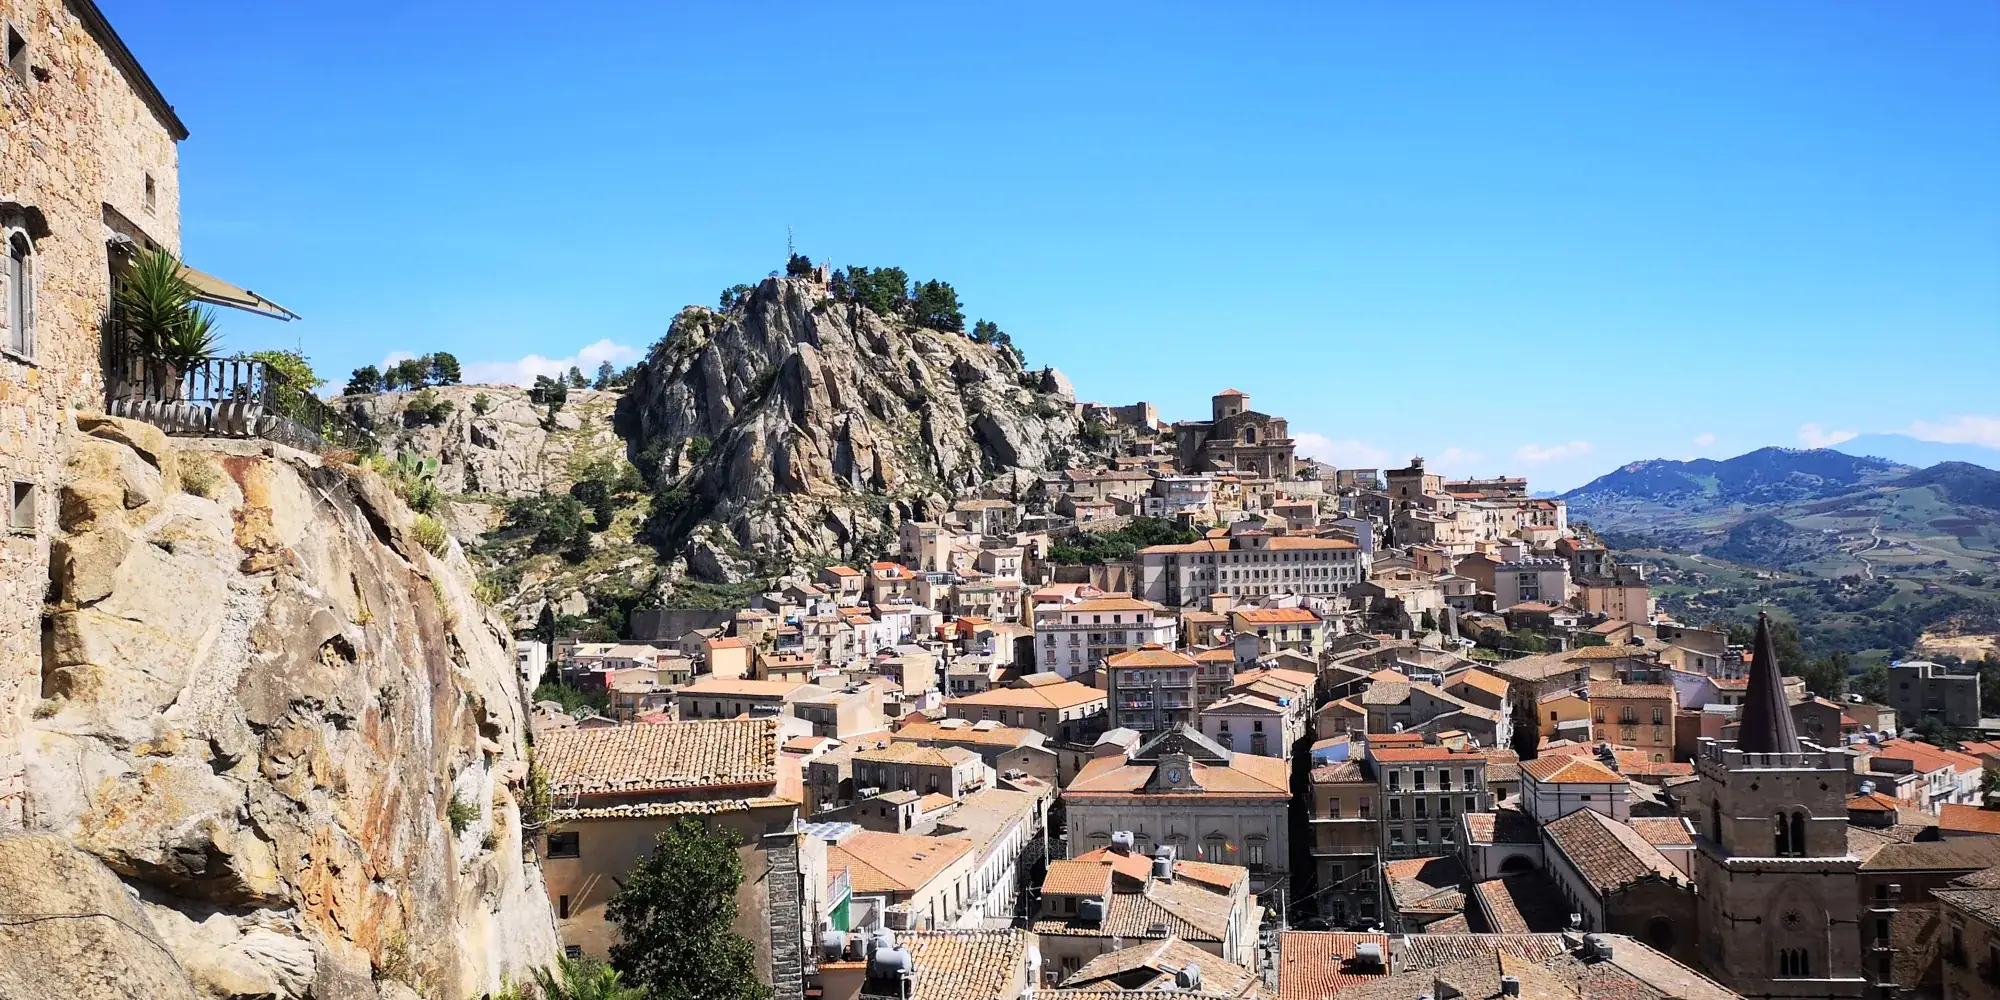
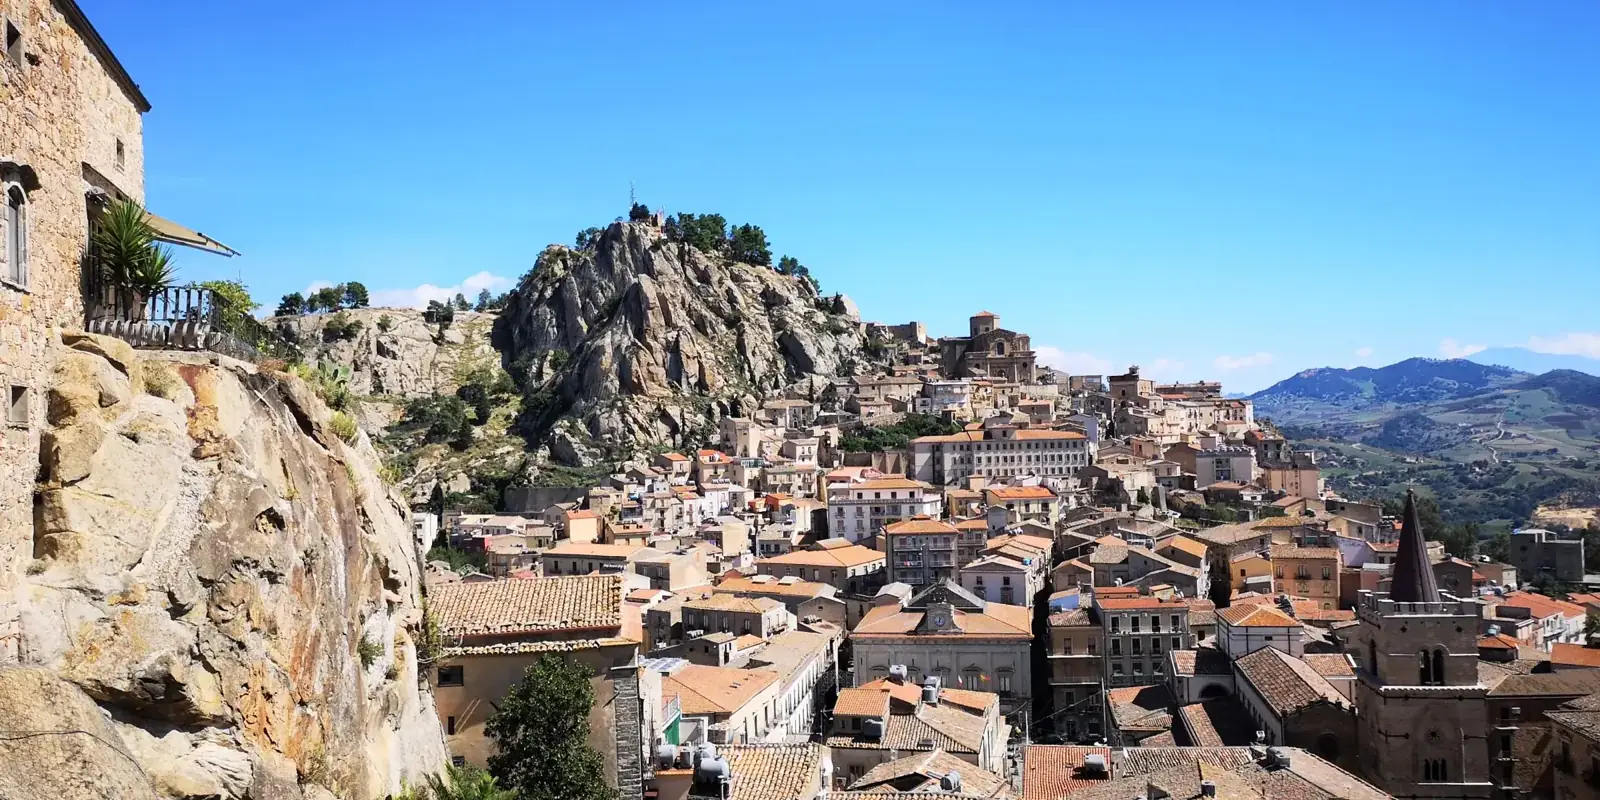
E-E-A-T e rifiniture: pagine Chi siamo/Contatti, byline guida, immagini piu' leggere
- Nuove pagine chi-siamo.html e contatti.html (AboutPage/ContactPage schema,
  meta/canonical/OG, <main>, skip-link), in sitemap e nel footer
- Guida: schema Article con autore e date + byline visibile (datePublished/author)
- Link interni incrociati (risolve orphan/weak-internal-links sulla guida)
- privacy: informativa sub-responsabili (Vercel, Google, OSM, Meta)
- Contatti: testo link telefono distinto (no mismatch nome accessibile)
- Immagini: logo 207KB->66KB, hero 1600px, Altesina 1120px (tutte <200KB)

diff --git a/sito-pronto/chi-siamo.html b/sito-pronto/chi-siamo.html
@@ -1,0 +1,105 @@
+<!DOCTYPE html>
+<html lang="it">
+<head>
+<meta charset="utf-8">
+<meta name="viewport" content="width=device-width, initial-scale=1">
+<title>Chi siamo — La Mansarda Nicosia</title>
+<meta name="description" content="La Mansarda è una casa di famiglia nel centro storico di Nicosia, gestita di persona da Paolo e Stefano Compagnone. Accoglienza, kit di benvenuto e consigli locali.">
+<link rel="canonical" href="https://www.lamansardanicosia.it/chi-siamo.html">
+<meta property="og:type" content="website">
+<meta property="og:title" content="Chi siamo — La Mansarda Nicosia">
+<meta property="og:description" content="Una casa di famiglia nel centro storico di Nicosia, gestita di persona da Paolo e Stefano Compagnone.">
+<meta property="og:image" content="https://www.lamansardanicosia.it/assets/img/hero-nicosia.webp">
+<meta property="og:url" content="https://www.lamansardanicosia.it/chi-siamo.html">
+<link rel="icon" href="assets/img/favicon.png">
+<link rel="preconnect" href="https://fonts.googleapis.com">
+<link rel="preconnect" href="https://fonts.gstatic.com" crossorigin>
+<link href="https://fonts.googleapis.com/css2?family=Inter:wght@400;600;700&family=Playfair+Display:wght@600&display=swap" rel="stylesheet">
+<script type="application/ld+json">
+{
+  "@context": "https://schema.org",
+  "@type": "AboutPage",
+  "url": "https://www.lamansardanicosia.it/chi-siamo.html",
+  "name": "Chi siamo — La Mansarda Nicosia",
+  "mainEntity": {
+    "@type": "LodgingBusiness",
+    "name": "La Mansarda",
+    "url": "https://www.lamansardanicosia.it/",
+    "image": "https://www.lamansardanicosia.it/assets/img/hero-nicosia.webp",
+    "telephone": "[phone redacted]",
+    "email": "[email redacted]",
+    "identifier": {
+      "@type": "PropertyValue",
+      "propertyID": "CIN",
+      "value": "IT086012C2KM8BBUCU"
+    },
+    "address": {
+      "@type": "PostalAddress",
+      "streetAddress": "Via Costanza Bruno 1",
+      "addressLocality": "Nicosia",
+      "addressRegion": "EN",
+      "postalCode": "94014",
+      "addressCountry": "IT"
+    },
+    "founder": {
+      "@type": "Person",
+      "name": "Paolo Compagnone",
+      "jobTitle": "Titolare"
+    },
+    "employee": [
+      {
+        "@type": "Person",
+        "name": "Paolo Compagnone",
+        "jobTitle": "Titolare"
+      },
+      {
+        "@type": "Person",
+        "name": "Stefano Compagnone",
+        "jobTitle": "Host"
+      }
+    ]
+  }
+}
+</script>
+<style>
+body{font-family:'Inter',system-ui,Arial,sans-serif;color:#1b2230;max-width:820px;margin:0 auto;padding:30px 22px 70px;line-height:1.65}
+h1,h2{font-family:'Playfair Display',serif;color:#14306e}
+h1{font-size:2rem}h2{font-size:1.25rem;margin-top:2rem}
+a{color:#1f3a8a}
+.top{display:flex;align-items:center;justify-content:space-between;border-bottom:1px solid #e6e9ef;padding-bottom:14px;margin-bottom:24px}
+.top img{height:40px}
+.muted{color:#5c6675;font-size:.9rem}
+.box{background:#f7f9fc;border:1px solid #e6e9ef;border-radius:12px;padding:14px 18px}
+.skip:focus{position:static!important;left:auto!important;display:inline-block;padding:8px 12px;background:#14306e;color:#fff;border-radius:6px}
+</style>
+</head>
+<body>
+<a href="#main" class="skip" style="position:absolute;left:-9999px">Salta al contenuto</a>
+<div class="top"><img src="logo-mansarda.png" alt="La Mansarda" width="1174" height="590"><a href="/">← Torna al sito</a></div>
+<main id="main">
+<h1>Chi siamo</h1>
+<p>La Mansarda è una casa di famiglia, non un albergo. Si trova nel centro storico di Nicosia (EN), in Sicilia, e la gestiamo di persona noi: Paolo e Stefano Compagnone. Quando arrivi ti accogliamo di persona, ti consegniamo le chiavi e ti raccontiamo i posti giusti dove mangiare e cosa vedere a Nicosia. Troverai un piccolo kit di benvenuto e la colazione di base pronta per te.</p>
+<p>Rispondiamo in fretta a ogni messaggio: per noi conta che ti senta a casa, dal primo contatto fino alla partenza.</p>
+
+<h2>I tuoi host</h2>
+<p>Paolo Compagnone è il titolare della struttura: è la persona che con ogni probabilità ti accoglierà all'arrivo e ti guiderà alla scoperta di Nicosia, dei suoi sapori e dei suoi angoli più autentici. Insieme a lui c'è Stefano, che cura il contatto con gli ospiti e segue le richieste prima e durante il soggiorno.</p>
+<p>Ci piace che La Mansarda sia un piccolo rifugio accogliente: ti aspettano un kit di benvenuto, la colazione di base già pronta, qualche consiglio sincero sui ristoranti e sulle cose da vedere e, per le serate più tranquille, una chitarra e una scacchiera a tua disposizione in casa.</p>
+
+<h2>La nostra struttura</h2>
+<p>La Mansarda è un bilocale di circa 50 m² nel cuore del centro storico di Nicosia, pensato per ospitare fino a 2 persone. Si trova al 4º piano e, in onestà, non c'è ascensore: bisogna fare le scale, ma una volta su ti aspetta una casa luminosa e raccolta, perfetta per una coppia o per chi viaggia da solo.</p>
+<p>Puoi prenotare direttamente con noi, senza commissioni di intermediazione: ci scrivi, concordiamo le date e il resto lo sistemiamo insieme, in modo semplice e trasparente.</p>
+
+<h2>Trasparenza</h2>
+<div class="box">
+<p><strong>Struttura:</strong> La Mansarda — CIN IT086012C2KM8BBUCU<br>
+<strong>Titolare:</strong> Paolo Compagnone<br>
+<strong>Indirizzo:</strong> Via Costanza Bruno 1, 94014 Nicosia (EN), Italia<br>
+<strong>Telefono / WhatsApp:</strong> <a href="tel:[phone redacted]">[phone redacted]</a><br>
+<strong>Email:</strong> <a href="mailto:[email redacted]">[email redacted]</a></p>
+</div>
+<p class="muted" style="margin-top:1rem">Il CIN (Codice Identificativo Nazionale) è esposto come previsto dalla normativa sulle locazioni turistiche.</p>
+
+<p style="margin-top:2rem">Hai domande o vuoi verificare le disponibilità? <a href="/contatti.html">Contattaci</a>, scopri <a href="/cosa-vedere-a-nicosia.html">cosa vedere a Nicosia</a> oppure <a href="/">torna alla home</a>.</p>
+</main>
+</body>
+</html>

diff --git a/sito-pronto/contatti.html b/sito-pronto/contatti.html
@@ -1,0 +1,100 @@
+<!DOCTYPE html>
+<html lang="it">
+<head>
+<meta charset="utf-8">
+<meta name="viewport" content="width=device-width, initial-scale=1">
+<title>Contatti — La Mansarda Nicosia</title>
+<meta name="description" content="Contatta gli host di La Mansarda a Nicosia: scrivici su WhatsApp, chiamaci o invia una email. Rispondiamo di persona, di solito entro poche ore.">
+<link rel="canonical" href="https://www.lamansardanicosia.it/contatti.html">
+<meta property="og:type" content="website">
+<meta property="og:title" content="Contatti — La Mansarda Nicosia">
+<meta property="og:description" content="Scrivici su WhatsApp, chiamaci o invia una email per informazioni, date e richieste speciali su La Mansarda a Nicosia.">
+<meta property="og:image" content="https://www.lamansardanicosia.it/assets/img/hero-nicosia.webp">
+<meta property="og:url" content="https://www.lamansardanicosia.it/contatti.html">
+<link rel="icon" href="assets/img/favicon.png">
+<link rel="preconnect" href="https://fonts.googleapis.com">
+<link rel="preconnect" href="https://fonts.gstatic.com" crossorigin>
+<link href="https://fonts.googleapis.com/css2?family=Inter:wght@400;600;700&family=Playfair+Display:wght@600&display=swap" rel="stylesheet">
+<script type="application/ld+json">
+{
+  "@context": "https://schema.org",
+  "@type": "ContactPage",
+  "name": "Contatti — La Mansarda Nicosia",
+  "url": "https://www.lamansardanicosia.it/contatti.html",
+  "description": "Contatta gli host di La Mansarda a Nicosia: WhatsApp, telefono o email.",
+  "mainEntity": {
+    "@type": "LodgingBusiness",
+    "name": "La Mansarda",
+    "url": "https://www.lamansardanicosia.it/",
+    "telephone": "[phone redacted]",
+    "email": "[email redacted]",
+    "image": "https://www.lamansardanicosia.it/assets/img/hero-nicosia.webp",
+    "address": {
+      "@type": "PostalAddress",
+      "streetAddress": "Via Costanza Bruno 1",
+      "addressLocality": "Nicosia",
+      "addressRegion": "EN",
+      "postalCode": "94014",
+      "addressCountry": "IT"
+    },
+    "contactPoint": {
+      "@type": "ContactPoint",
+      "contactType": "customer service",
+      "telephone": "[phone redacted]",
+      "email": "[email redacted]",
+      "availableLanguage": ["it", "en"]
+    },
+    "identifier": {
+      "@type": "PropertyValue",
+      "name": "CIN",
+      "value": "IT086012C2KM8BBUCU"
+    }
+  }
+}
+</script>
+<style>
+body{font-family:'Inter',system-ui,Arial,sans-serif;color:#1b2230;max-width:820px;margin:0 auto;padding:30px 22px 70px;line-height:1.65}
+h1,h2{font-family:'Playfair Display',serif;color:#14306e}
+h1{font-size:2rem}h2{font-size:1.25rem;margin-top:2rem}
+a{color:#1f3a8a}
+.top{display:flex;align-items:center;justify-content:space-between;border-bottom:1px solid #e6e9ef;padding-bottom:14px;margin-bottom:24px}
+.top img{height:40px}
+.muted{color:#5c6675;font-size:.9rem}
+.box{background:#f7f9fc;border:1px solid #e6e9ef;border-radius:12px;padding:14px 18px}
+.contacts{list-style:none;padding:0;margin:1rem 0}
+.contacts li{padding:10px 0;border-bottom:1px solid #eef1f6}
+.contacts li:last-child{border-bottom:0}
+.contacts strong{display:inline-block;min-width:90px;color:#14306e}
+.skip:focus{position:static!important;left:auto!important;display:inline-block;padding:8px 12px;background:#14306e;color:#fff;border-radius:6px}
+</style>
+</head>
+<body>
+<a href="#main" class="skip" style="position:absolute;left:-9999px">Salta al contenuto</a>
+<div class="top"><img src="logo-mansarda.png" alt="La Mansarda" width="1174" height="590"><a href="/">← Torna al sito</a></div>
+<main id="main">
+<h1>Contatti</h1>
+<p>Per informazioni, date o richieste speciali, scrivici: rispondiamo in fretta. Dietro La Mansarda ci siamo noi, Paolo &amp; Stefano Compagnone, e rispondiamo sempre di persona, di solito entro poche ore.</p>
+
+<div class="box">
+<ul class="contacts">
+  <li><strong>WhatsApp:</strong> <a href="https://wa.me/[phone redacted]">Scrivici su WhatsApp ([phone redacted])</a></li>
+  <li><strong>Telefono:</strong> <a href="tel:[phone redacted]">Chiama il [phone redacted]</a></li>
+  <li><strong>Email:</strong> <a href="mailto:[email redacted]">[email redacted]</a></li>
+</ul>
+</div>
+
+<h2>Dove siamo</h2>
+<p>Via Costanza Bruno 1, 94014 Nicosia (EN), Sicilia. La Mansarda si trova nel centro storico di Nicosia, a pochi passi dai vicoli, dalle chiese e dalle piazze del cuore antico della città.</p>
+
+<h2>Tempi di risposta</h2>
+<p>Rispondiamo in genere entro poche ore. Se ci scrivi la sera, potremmo risponderti la mattina successiva: in ogni caso ti ricontattiamo sempre noi, senza intermediari.</p>
+
+<h2>Dati struttura</h2>
+<p>Titolare: Paolo Compagnone.<br>
+Struttura: La Mansarda — CIN IT086012C2KM8BBUCU.<br>
+Via Costanza Bruno 1, 94014 Nicosia (EN), Italia.</p>
+
+<p class="muted" style="margin-top:2rem">Vuoi saperne di più? <a href="/">Torna alla home</a>, scopri <a href="/chi-siamo.html">Chi siamo</a> oppure passa direttamente alla sezione <a href="/#prenota">Prenota</a>.</p>
+</main>
+</body>
+</html>

diff --git a/sito-pronto/cosa-vedere-a-nicosia.html b/sito-pronto/cosa-vedere-a-nicosia.html
@@ -36,6 +36,20 @@
   ]
 }
 </script>
+<script type="application/ld+json">
+{
+  "@context": "https://schema.org",
+  "@type": "Article",
+  "headline": "Cosa vedere a Nicosia (Sicilia): guida al borgo dei Nebrodi",
+  "description": "Cosa vedere a Nicosia (Enna): cattedrale, basiliche barocche, Monte Altesina, laghi e natura dei Nebrodi.",
+  "image": "https://www.lamansardanicosia.it/assets/img/nicosia/nicosia-01-centro.webp",
+  "datePublished": "2026-01-15",
+  "dateModified": "2026-06-16",
+  "author": { "@type": "Person", "name": "Stefano Compagnone", "url": "https://www.lamansardanicosia.it/chi-siamo.html" },
+  "publisher": { "@type": "Organization", "name": "La Mansarda Nicosia", "logo": { "@type": "ImageObject", "url": "https://www.lamansardanicosia.it/logo-mansarda.png" } },
+  "mainEntityOfPage": "https://www.lamansardanicosia.it/cosa-vedere-a-nicosia.html"
+}
+</script>
 <style>
 :root{--navy:#1f3a8a;--navy-deep:#14306e;--azure:#3e97d1;--azure-light:#eaf4fb;--ink:#1b2230;--muted:#5c6675;--line:#e6e9ef;--bg:#fff;--soft:#f7f9fc;--radius:14px;--maxw:820px;--shadow:0 10px 30px rgba(20,48,110,.08)}
 *{box-sizing:border-box}
@@ -103,6 +117,7 @@ footer a{color:#cdd6ec}
 
 <div class="wrap">
   <p class="crumb"><a href="/">La Mansarda</a> › Cosa vedere a Nicosia</p>
+  <p class="byline" style="color:#5c6675;font-size:.9rem;margin:.2rem 0 0">Di <a href="/chi-siamo.html" rel="author">Stefano Compagnone</a> · Pubblicato il <time datetime="2026-01-15">15 gennaio 2026</time> · Aggiornato il <time datetime="2026-06-16">16 giugno 2026</time></p>
 </div>
 
 <article class="wrap">
@@ -128,7 +143,7 @@ footer a{color:#cdd6ec}
 
   <h2>Monte Altesina e la natura dei Nebrodi</h2>
   <p>Per gli amanti della natura, <strong>Monte Altesina</strong> è una meta da non perdere: sentieri di trekking conducono a panorami spettacolari sul cuore della Sicilia. Tutt'intorno a Nicosia si estendono le colline verdi dei <strong>Nebrodi</strong>, con riserve naturali, boschi e percorsi ideali per escursioni a piedi o in bici.</p>
-  <img class="poi-img" src="assets/img/nicosia/nicosia-08-altesina.webp" width="1400" height="788" alt="Panorama da Monte Altesina vicino Nicosia" loading="lazy">
+  <img class="poi-img" src="assets/img/nicosia/nicosia-08-altesina.webp" width="1120" height="630" alt="Panorama da Monte Altesina vicino Nicosia" loading="lazy">
 
   <h2>Laghi e paesaggi</h2>
   <p>Nei dintorni si trovano i <strong>laghetti Campanito</strong> e altri specchi d'acqua immersi nel verde, perfetti per una giornata all'aria aperta. La zona di Sambughetti e le aree naturali circostanti offrono scenari incontaminati, lontani dai circuiti turistici più affollati.</p>

diff --git a/sito-pronto/privacy.html b/sito-pronto/privacy.html
@@ -19,8 +19,11 @@
 <style>
 body{font-family:'Inter',system-ui,Arial,sans-serif;color:#1b2230;max-width:820px;margin:0 auto;padding:30px 22px 70px;line-height:1.65}
 h1,h2{font-family:'Playfair Display',serif;color:#14306e}
-h1{font-size:2rem}h2{font-size:1.25rem;margin-top:2rem}
+h1{font-size:2rem}h2{font-size:1.25rem;margin-top:2rem}h3{font-size:1.05rem;margin-top:1.4rem}
 a{color:#1f3a8a}
+table{border-collapse:collapse;width:100%;margin:1rem 0;font-size:.92rem}
+th,td{border:1px solid #e6e9ef;padding:.6rem .7rem;text-align:left;vertical-align:top}
+th{background:#f7f9fc}
 .top{display:flex;align-items:center;justify-content:space-between;border-bottom:1px solid #e6e9ef;padding-bottom:14px;margin-bottom:24px}
 .top img{height:40px}
 .muted{color:#5c6675;font-size:.9rem}
@@ -54,6 +57,18 @@ Struttura: La Mansarda — CIN IT086012C2KM8BBUCU</p>
 
 <h2>4. Comunicazione a terzi</h2>
 <p>I dati possono essere comunicati a: Portale Alloggiati della Questura e portali statistici regionali/ISTAT, quando previsto dalla legge. La mappa è fornita da OpenStreetMap e i caratteri tipografici da Google Fonts (durante il caricamento può essere trattato il tuo indirizzo IP). Se ci contatti tramite WhatsApp, lo scambio dei messaggi avviene tramite WhatsApp/Meta secondo le sue condizioni. Non vendiamo né cediamo i tuoi dati a fini commerciali.</p>
+<h3>Responsabili del trattamento e sub-fornitori</h3>
+<p>Per erogare il servizio ci avvaliamo dei seguenti fornitori esterni (sub-responsabili), ciascuno con la propria informativa privacy:</p>
+<table>
+<thead><tr><th>Fornitore</th><th>Finalità</th><th>Dati trattati</th><th>Sede / trasferimento</th></tr></thead>
+<tbody>
+<tr><td>Vercel Inc.</td><td>Hosting del sito e funzione di disponibilità</td><td>Log tecnici, indirizzo IP</td><td>USA (clausole contrattuali standard)</td></tr>
+<tr><td>Google Ireland Ltd. (Analytics 4)</td><td>Statistiche di utilizzo, solo con consenso</td><td>IP anonimizzato, identificatori cookie</td><td>UE/USA (SCC)</td></tr>
+<tr><td>Google Ireland Ltd. (Fonts)</td><td>Caricamento dei caratteri tipografici</td><td>Indirizzo IP</td><td>UE/USA (SCC)</td></tr>
+<tr><td>OpenStreetMap Foundation</td><td>Mappa interattiva</td><td>Indirizzo IP</td><td>UE/Regno Unito</td></tr>
+<tr><td>WhatsApp / Meta Platforms</td><td>Messaggistica (se ci scrivi su WhatsApp)</td><td>Numero, contenuto dei messaggi</td><td>USA (SCC)</td></tr>
+</tbody>
+</table>
 
 <h2>5. Conservazione</h2>
 <p>Conserviamo i dati per il tempo necessario alle finalità indicate e nei limiti previsti dalla legge (ad esempio, gli obblighi fiscali e di pubblica sicurezza). Le richieste informative senza prenotazione sono conservate per il tempo strettamente necessario a dar seguito alla richiesta.</p>

diff --git a/sito-pronto/index.html b/sito-pronto/index.html
@@ -409,7 +409,7 @@ h1,h2,h3{text-wrap:balance}
 <!-- HERO -->
 <section class="hero" id="top" style="padding:0">
   <div class="cin-top">CIN IT086012C2KM8BBUCU</div>
-  <div class="hero-bg"><img src="assets/img/hero-nicosia.webp" srcset="assets/img/hero-nicosia-sm.webp 900w, assets/img/hero-nicosia.webp 2000w" sizes="100vw" width="2000" height="1000" alt="Veduta panoramica di Nicosia, borgo medievale in Sicilia" fetchpriority="high"></div>
+  <div class="hero-bg"><img src="assets/img/hero-nicosia.webp" srcset="assets/img/hero-nicosia-sm.webp 900w, assets/img/hero-nicosia.webp 1600w" sizes="100vw" width="1600" height="800" alt="Veduta panoramica di Nicosia, borgo medievale in Sicilia" fetchpriority="high"></div>
   <div class="wrap hero-inner">
     <div class="eyebrow" style="color:#bfe0f7" data-i18n="hero_eyebrow">Affitto breve · Nicosia, Sicilia</div>
     <h1 data-i18n="hero_title">La Mansarda, il tuo rifugio nel cuore della Sicilia</h1>
@@ -502,7 +502,7 @@ h1,h2,h3{text-wrap:balance}
       <div class="poi-card"><img src="assets/img/nicosia/nicosia-01-centro.webp" srcset="assets/img/nicosia/nicosia-01-centro-sm.webp 640w, assets/img/nicosia/nicosia-01-centro.webp 1400w" sizes="(max-width:700px) 78vw, 30vw" width="1400" height="788" alt="Centro storico di Nicosia" loading="lazy"><div class="pc"><h3 data-i18n="poi1_t">Centro storico</h3><p data-i18n="poi1_d">Vicoli medievali, scorci e piazze a pochi minuti a piedi.</p></div></div>
       <div class="poi-card"><img src="assets/img/nicosia/nicosia-03-basilica.webp" srcset="assets/img/nicosia/nicosia-03-basilica-sm.webp 640w, assets/img/nicosia/nicosia-03-basilica.webp 1400w" sizes="(max-width:700px) 78vw, 30vw" width="1400" height="1050" alt="Basilica di Santa Maria Maggiore" loading="lazy"><div class="pc"><h3 data-i18n="poi2_t">Basiliche e cattedrale</h3><p data-i18n="poi2_d">San Nicola, Santa Maria Maggiore e portali barocchi.</p></div></div>
       <div class="poi-card"><img src="assets/img/nicosia/nicosia-06-feste.webp" srcset="assets/img/nicosia/nicosia-06-feste-sm.webp 640w, assets/img/nicosia/nicosia-06-feste.webp 1400w" sizes="(max-width:700px) 78vw, 30vw" width="1400" height="788" alt="Feste popolari a Nicosia" loading="lazy"><div class="pc"><h3 data-i18n="poi3_t">Tradizioni e feste</h3><p data-i18n="poi3_d">Eventi, processioni e sapori della cultura locale.</p></div></div>
-      <div class="poi-card"><img src="assets/img/nicosia/nicosia-08-altesina.webp" srcset="assets/img/nicosia/nicosia-08-altesina-sm.webp 640w, assets/img/nicosia/nicosia-08-altesina.webp 1400w" sizes="(max-width:700px) 78vw, 30vw" width="1400" height="788" alt="Monte Altesina" loading="lazy"><div class="pc"><h3 data-i18n="poi4_t">Monte Altesina</h3><p data-i18n="poi4_d">Trekking e panorami sul cuore della Sicilia.</p></div></div>
+      <div class="poi-card"><img src="assets/img/nicosia/nicosia-08-altesina.webp" srcset="assets/img/nicosia/nicosia-08-altesina-sm.webp 640w, assets/img/nicosia/nicosia-08-altesina.webp 1120w" sizes="(max-width:700px) 78vw, 30vw" width="1120" height="630" alt="Monte Altesina" loading="lazy"><div class="pc"><h3 data-i18n="poi4_t">Monte Altesina</h3><p data-i18n="poi4_d">Trekking e panorami sul cuore della Sicilia.</p></div></div>
       <div class="poi-card"><img src="assets/img/nicosia/nicosia-09-lago.webp" srcset="assets/img/nicosia/nicosia-09-lago-sm.webp 640w, assets/img/nicosia/nicosia-09-lago.webp 1400w" sizes="(max-width:700px) 78vw, 30vw" width="960" height="540" alt="Laghi vicino a Nicosia" loading="lazy"><div class="pc"><h3 data-i18n="poi5_t">Laghi e natura</h3><p data-i18n="poi5_d">Laghetti Campanito e riserve dei Nebrodi.</p></div></div>
       <div class="poi-card"><img src="assets/img/nicosia/nicosia-10-rupestri.webp" srcset="assets/img/nicosia/nicosia-10-rupestri-sm.webp 640w, assets/img/nicosia/nicosia-10-rupestri.webp 1400w" sizes="(max-width:700px) 78vw, 30vw" width="1400" height="933" alt="Antiche grotte scavate nella roccia nei dintorni di Nicosia" loading="lazy"><div class="pc"><h3 data-i18n="poi6_t">Insediamenti rupestri</h3><p data-i18n="poi6_d">Storia millenaria scavata nella roccia.</p></div></div>
     </div>
@@ -639,8 +639,8 @@ h1,h2,h3{text-wrap:balance}
     <h2 data-i18n="con_title">Parla con noi</h2>
     <p class="lead" data-i18n="con_lead">Per informazioni, date o richieste speciali, scrivici: rispondiamo in fretta.</p>
     <div class="contact-grid" style="margin-top:22px">
-      <div class="cc"><div class="ico">💬</div><b>WhatsApp</b><a href="https://wa.me/[phone redacted]" aria-label="Scrivici su WhatsApp al [phone redacted]">[phone redacted]</a></div>
-      <div class="cc"><div class="ico">📞</div><b data-i18n="con_phone">Telefono</b><a href="tel:[phone redacted]" aria-label="Chiama il [phone redacted]">[phone redacted]</a></div>
+      <div class="cc"><div class="ico">💬</div><b>WhatsApp</b><a href="https://wa.me/[phone redacted]">Scrivici su WhatsApp: [phone redacted]</a></div>
+      <div class="cc"><div class="ico">📞</div><b data-i18n="con_phone">Telefono</b><a href="tel:[phone redacted]">Chiama: [phone redacted]</a></div>
       <div class="cc"><div class="ico">✉️</div><b>Email</b><a href="mailto:[email redacted]">[email redacted]</a></div>
     </div>
   </div>
@@ -662,6 +662,9 @@ h1,h2,h3{text-wrap:balance}
         <a href="#galleria" data-i18n="nav_gallery">Galleria</a>
         <a href="#nicosia" data-i18n="nav_nicosia">Nicosia</a>
         <a href="#prenota" data-i18n="nav_book">Prenota</a>
+        <a href="chi-siamo.html" data-i18n="nav_about">Chi siamo</a>
+        <a href="contatti.html" data-i18n="nav_contact">Contatti</a>
+        <a href="cosa-vedere-a-nicosia.html" data-i18n="nav_guide">Cosa vedere a Nicosia</a>
       </div>
       <div>
         <h3 data-i18n="foot_legal">Informazioni legali</h3>